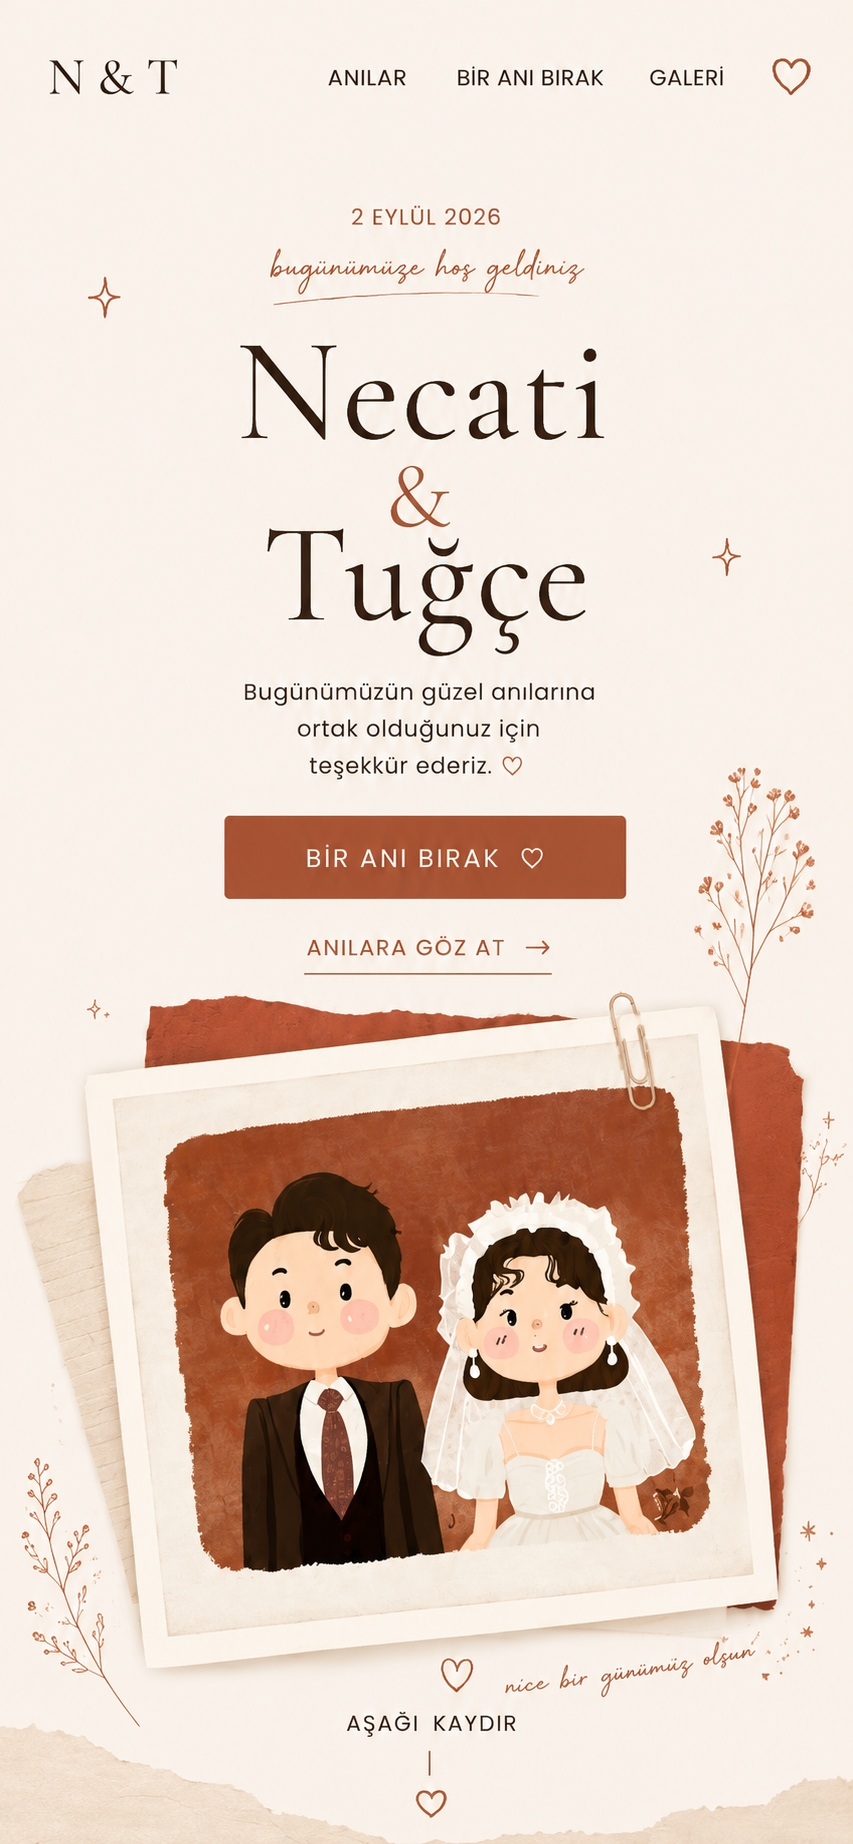
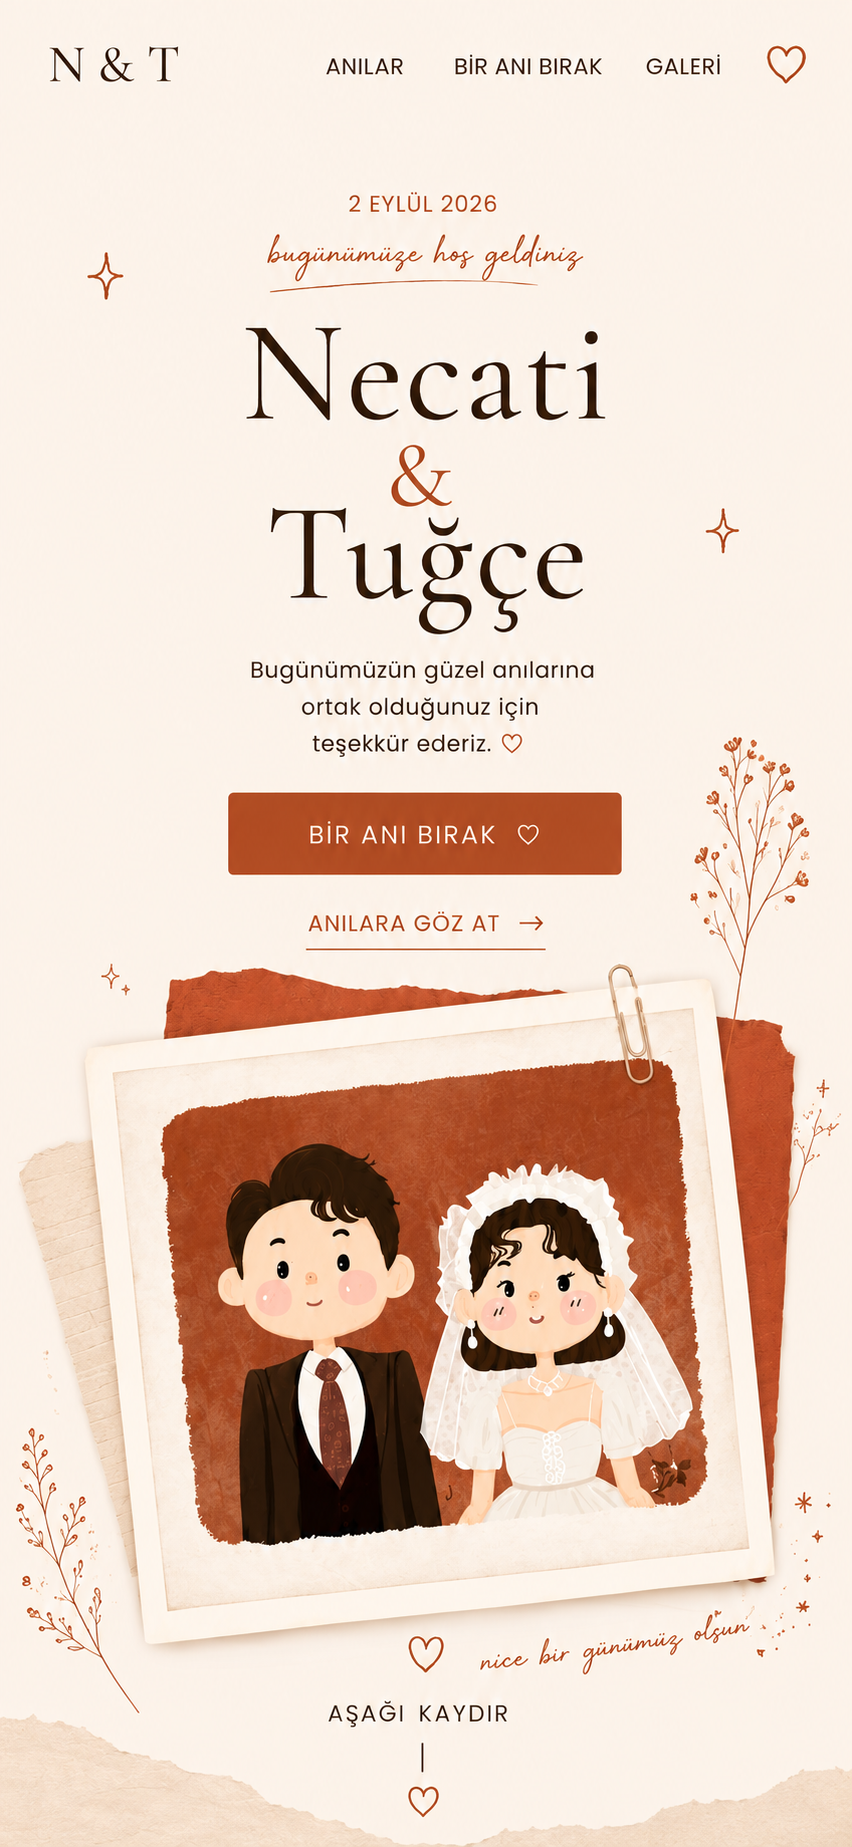
fix: use full-resolution mobile landing artwork
Replace compressed mobile image with lossless 852x1847 artwork, update dimensions, and add safe-area padding for notch devices.

diff --git a/src/components/landing/landing.css b/src/components/landing/landing.css
@@ -31,6 +31,7 @@
 
 @media (max-width: 768px) {
   .landing {
+    padding-top: env(safe-area-inset-top, 0px);
     padding-bottom: env(safe-area-inset-bottom, 0px);
   }
 
@@ -112,7 +113,7 @@
   height: 5%;
 }
 
-/* ── Mobile koordinatlar (%) — 472×1024 artboard referansı ── */
+/* ── Mobile koordinatlar (%) — 852×1847 artwork referansı ── */
 .hotspot-m-menu-anilar {
   left: 32.5%;
   top: 3.1%;

diff --git a/src/components/landing/LandingArtwork.tsx b/src/components/landing/LandingArtwork.tsx
@@ -44,8 +44,8 @@ export function LandingArtwork() {
         <img
           src={ART_MOBILE}
           alt="Necati ve Tuğçe"
-          width={853}
-          height={1844}
+          width={852}
+          height={1847}
           fetchPriority="high"
           decoding="async"
         />
